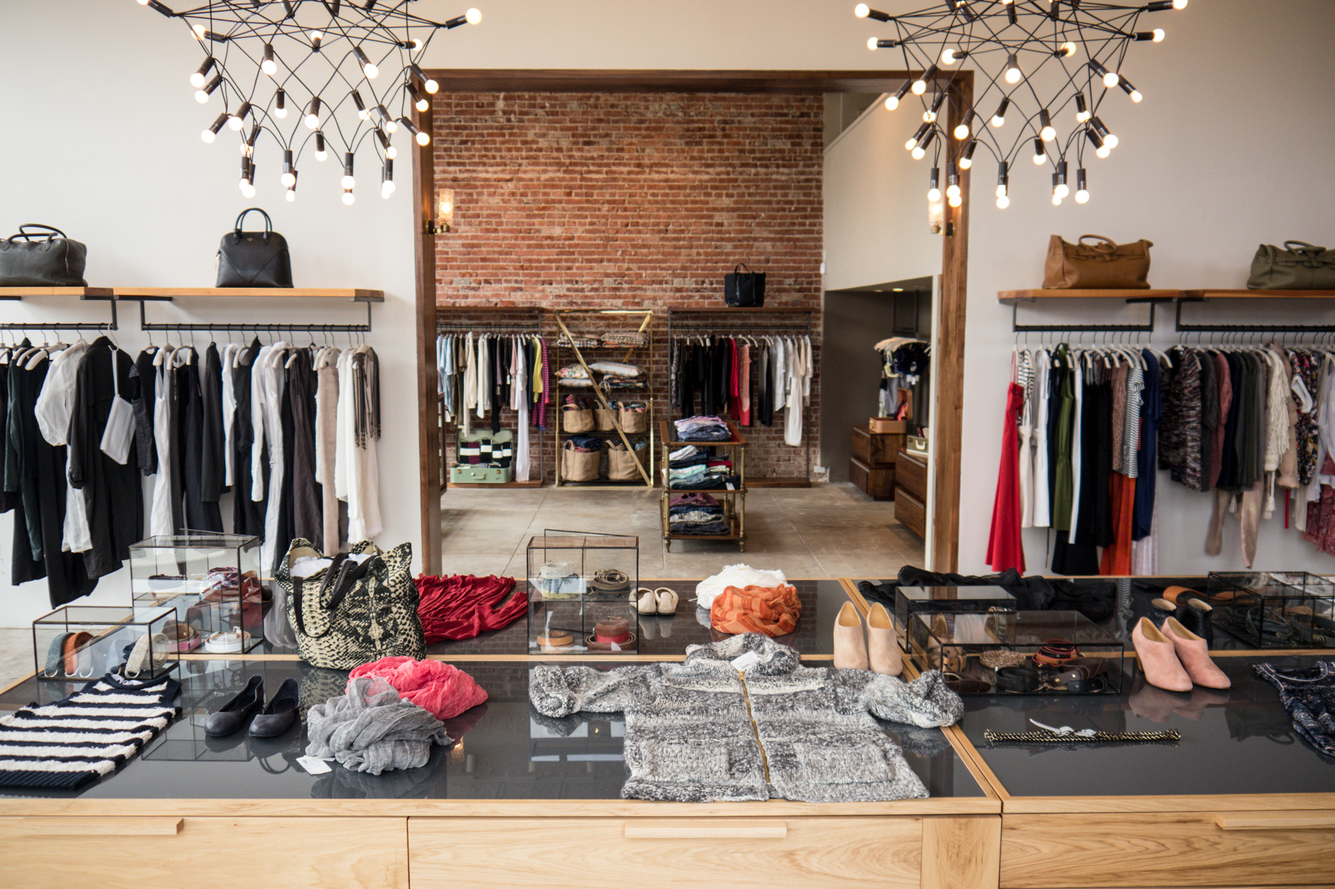
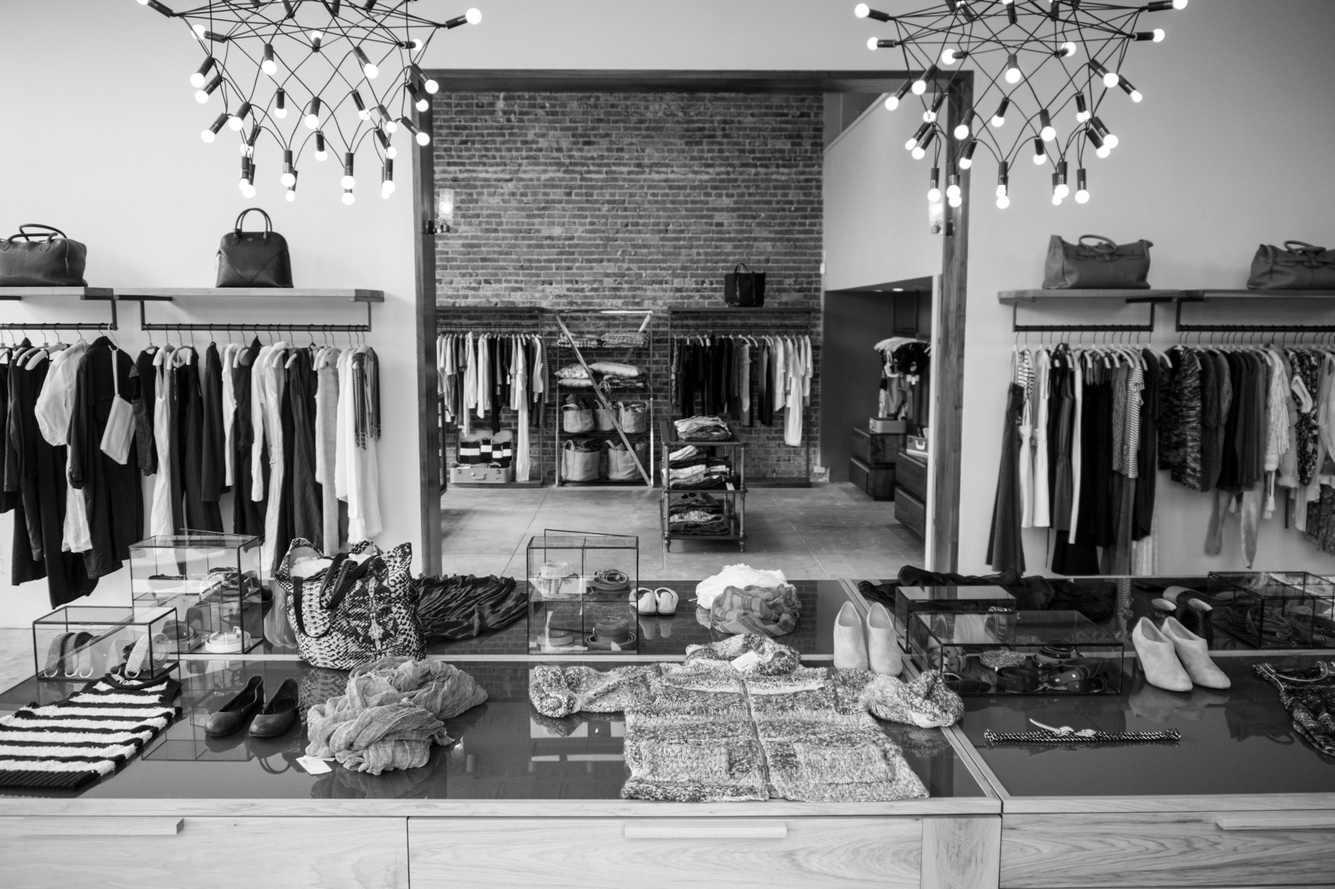
Login background image -> grayscale

diff --git a/public/stylesheets/login.css b/public/stylesheets/login.css
@@ -3,7 +3,7 @@ body {
     /*-webkit-filter: grayscale(100%); /* Chrome, Safari, Opera */
     background-color: black;
     opacity: 1;
-    background-blend-mode: luminosity;
+    /*background-blend-mode: luminosity;*/
     background-repeat: no-repeat;
     background-position: center center;
     background-size: cover;
